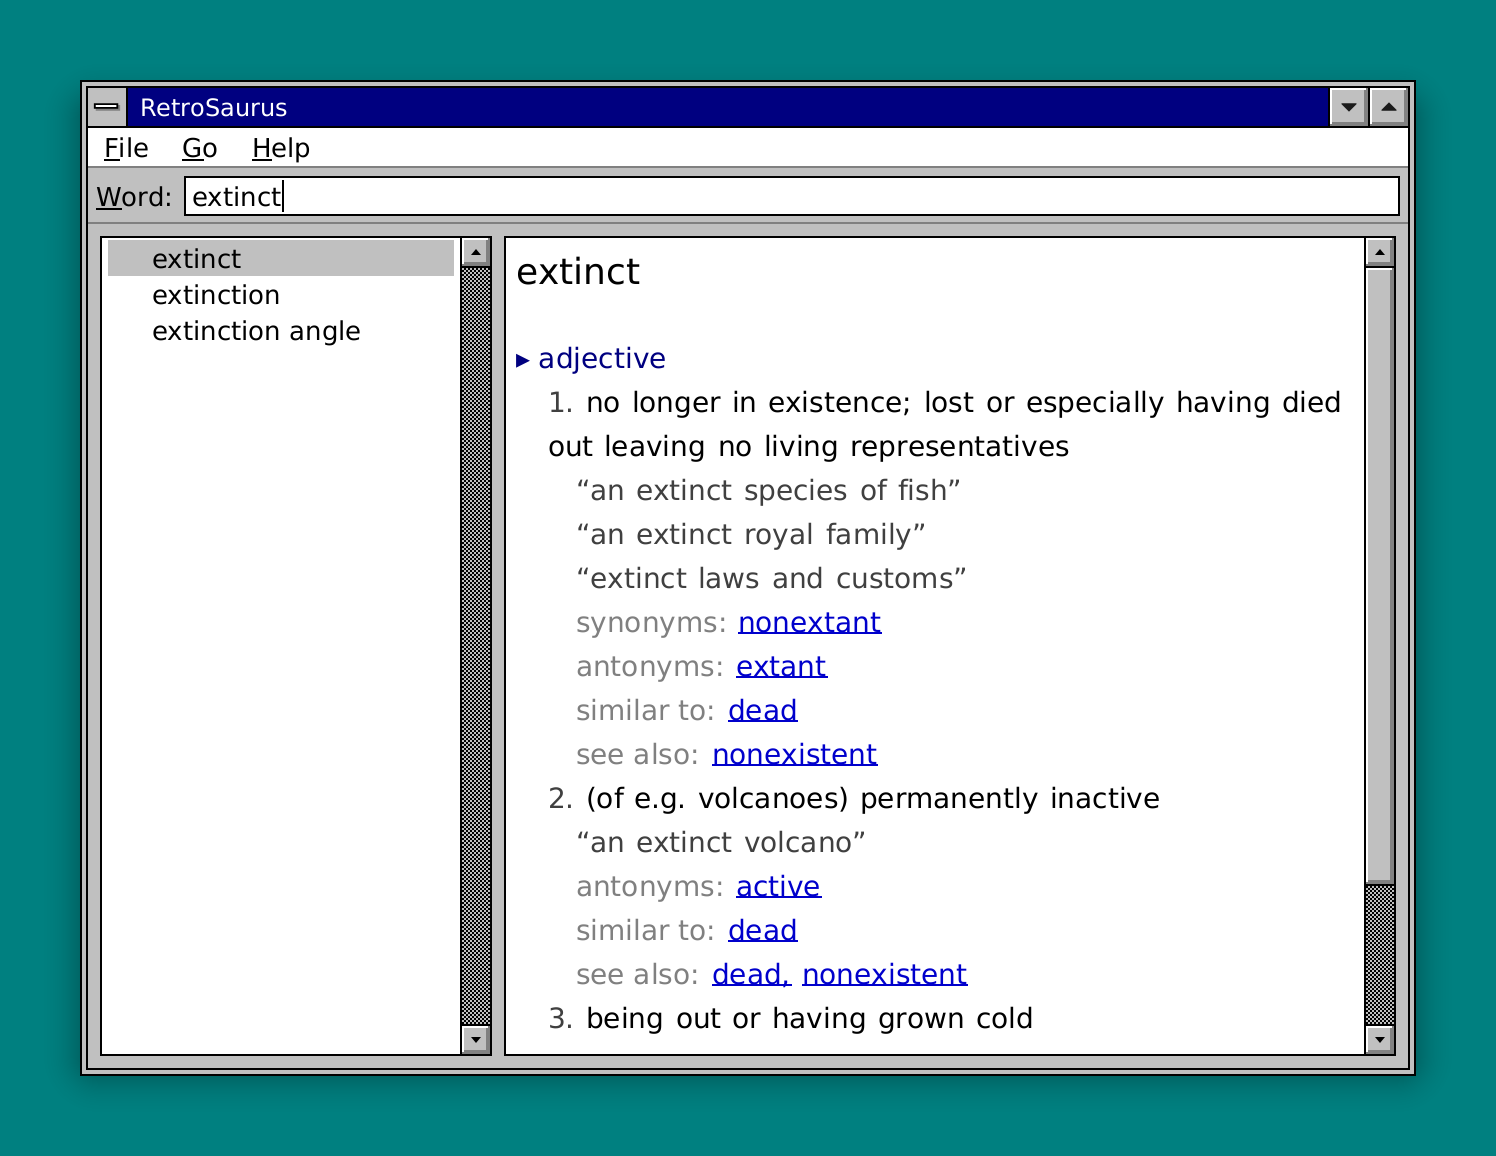
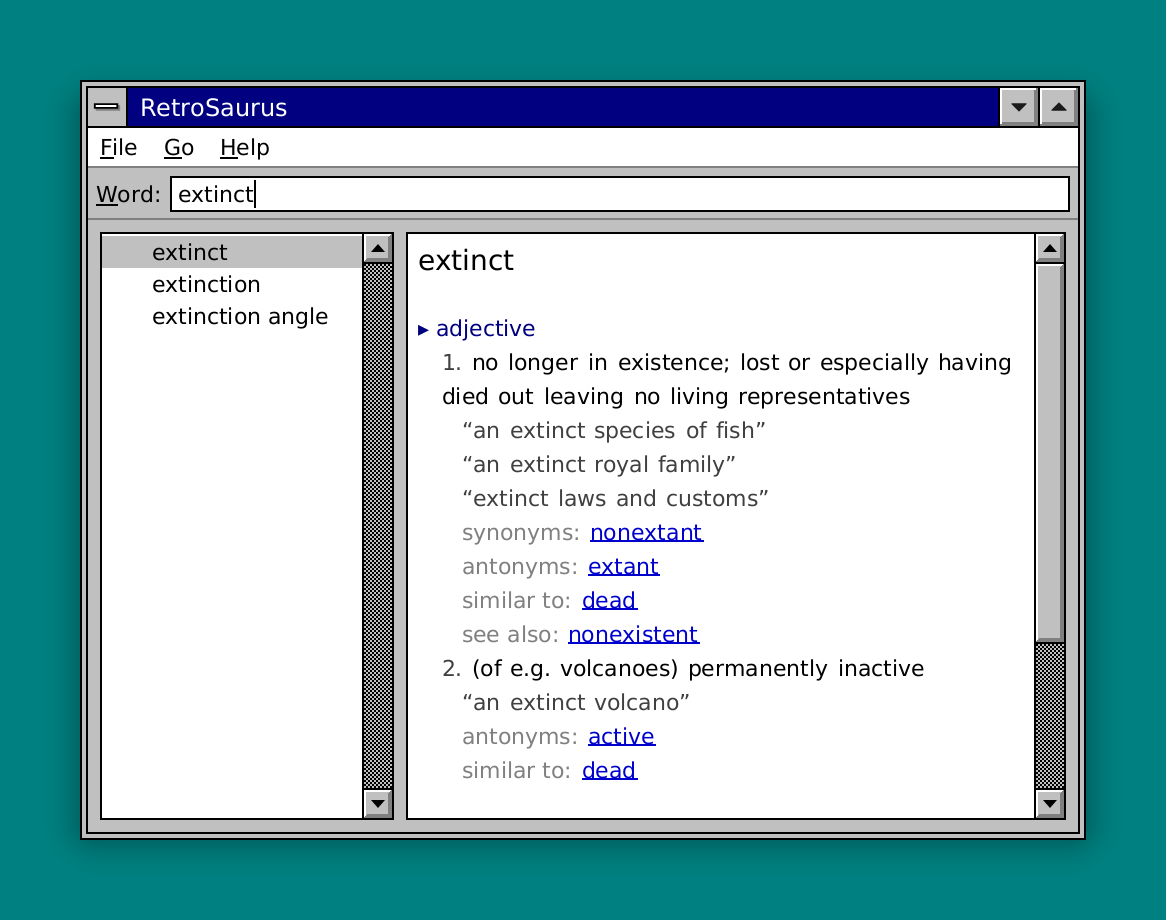
Upgrade Saudade to v0.7

Changed region(s): [[0.0309, 0.0609, 0.9571, 0.9435]]

diff --git a/src/widgets/definition_view.rs b/src/widgets/definition_view.rs
@@ -14,7 +14,7 @@
 //! out by the previous paint — the same approach saudade's `TextInput` uses.
 
 use saudade::{
-    Color, Cursor, Event, EventCtx, Key, MouseButton, NamedKey, Painter, Point, Rect,
+    Color, Cursor, Event, EventCtx, Key, Merged, MouseButton, NamedKey, Painter, Point, Rect,
     SCROLLBAR_THICKNESS, ScrollBar, Theme, Widget,
 };
 
@@ -22,8 +22,8 @@ use crate::thesaurus::{Entry, Pos, WordId};
 
 const PAD_X: i32 = 6;
 const PAD_Y: i32 = 4;
-const INDENT_SENSE: i32 = 16;
-const INDENT_DETAIL: i32 = 30;
+const INDENT_SENSE: i32 = 12;
+const INDENT_DETAIL: i32 = 22;
 
 // Link colors — a brighter blue than the navy chrome, underlined so they read
 // as clickable; hovering one also swaps in the Finger pointer (see `event`).
@@ -123,7 +123,7 @@ impl DefinitionView {
             line_count: 0,
             laid_width: -1,
             dirty: true,
-            font_size: 14.0,
+            font_size: 11.0,
             v_scrollbar: ScrollBar::vertical(Rect::new(0, 0, 0, 0)),
             focused: false,
             hovered: None,
@@ -153,7 +153,7 @@ impl DefinitionView {
     }
 
     fn line_height(&self) -> i32 {
-        (self.font_size as i32 + 8).max(10)
+        (self.font_size as i32 + 6).max(10)
     }
 
     fn text_area(&self) -> Rect {
@@ -173,6 +173,18 @@ impl DefinitionView {
             (self.rect.w - sb_w + overlap).max(0),
             self.rect.h,
         )
+    }
+
+    /// Which edges of the text field sit on a neighbouring frame line: the
+    /// right one, when the field overlaps the scrollbar (see `text_area`).
+    /// Passed to the merged chrome / frame-clip calls so the field's border
+    /// lands on the scrollbar's own border pixels at every scale.
+    fn merged(&self) -> Merged {
+        if self.v_scrollbar.rect().w > 0 {
+            Merged::RIGHT
+        } else {
+            Merged::NONE
+        }
     }
 
     fn content_w(&self) -> i32 {
@@ -212,7 +224,7 @@ impl DefinitionView {
 
     fn style_size(&self, style: RunStyle) -> f32 {
         match style {
-            RunStyle::Headword => self.font_size + 4.0,
+            RunStyle::Headword => self.font_size + 3.0,
             _ => self.font_size,
         }
     }
@@ -312,9 +324,10 @@ impl Widget for DefinitionView {
         self.sync_scrollbar();
 
         let text = self.text_area();
+        let merged = self.merged();
         painter.fill_rect(text, Color::WHITE);
-        painter.sunken_bevel(text, theme.highlight, theme.shadow);
-        painter.stroke_rect(text, theme.border);
+        painter.sunken_bevel_merged(text, merged, theme.highlight, theme.shadow);
+        painter.stroke_rect_merged(text, merged, theme.border);
 
         let line_h = self.line_height();
         let x0 = text.x + PAD_X;
@@ -322,7 +335,9 @@ impl Widget for DefinitionView {
         let visible = self.visible_rows() as usize;
         let scroll_top = self.scroll_top();
 
-        let saved = painter.push_clip(text.inset(1));
+        // Clip to the frame's interior, so text stops on exactly the border
+        // line's device pixels at fractional scales.
+        let saved = painter.push_clip_frame(text, 1, merged);
 
         if self.doc.is_empty() {
             painter.text(x0, y0, &self.placeholder, self.font_size, Color::MID_GRAY);

diff --git a/src/widgets/search_bar.rs b/src/widgets/search_bar.rs
@@ -7,13 +7,15 @@
 
 use saudade::{Color, Event, EventCtx, Painter, Rect, TextInput, Theme, Widget};
 
-const LABEL_W: i32 = 48;
 const PAD: i32 = 4;
 
 pub struct SearchBar {
     bounds: Rect,
     input: TextInput,
     label: String,
+    /// Measured width of `label`. Text can only be measured while painting,
+    /// so this holds a rough estimate until the first paint corrects it.
+    label_w: i32,
 }
 
 impl SearchBar {
@@ -22,6 +24,7 @@ impl SearchBar {
             bounds: rect,
             input: TextInput::new(Rect::new(0, 0, 0, 0)),
             label: "Word:".to_string(),
+            label_w: 32,
         };
         me.relayout();
         me
@@ -49,7 +52,7 @@ impl SearchBar {
     }
 
     fn relayout(&mut self) {
-        let x = self.bounds.x + LABEL_W;
+        let x = self.bounds.x + PAD + self.label_w + PAD;
         let input_rect = Rect::new(
             x,
             self.bounds.y + PAD,
@@ -66,6 +69,11 @@ impl Widget for SearchBar {
     }
 
     fn paint(&mut self, painter: &mut Painter, theme: &Theme) {
+        let label_w = painter.measure_text(&self.label, theme.font_size).w;
+        if label_w != self.label_w {
+            self.label_w = label_w;
+            self.relayout();
+        }
         painter.fill_rect(self.bounds, theme.face);
         let label_y = self.bounds.y + (self.bounds.h - theme.font_size as i32) / 2 - 1;
         painter.text(

diff --git a/examples/screenshots.rs b/examples/screenshots.rs
@@ -20,8 +20,9 @@ use retrosaurus::ui::RetroSaurus;
 use saudade::mock::MockBackend;
 use saudade::{Event, Font, Modifiers, Widget, WindowChrome};
 
-const WINDOW_W: i32 = 660;
-const WINDOW_H: i32 = 470;
+// Same logical size the binary opens at (see `src/main.rs`).
+const WINDOW_W: i32 = 495;
+const WINDOW_H: i32 = 352;
 // Capture at 2× so the README image stays crisp on hi-DPI displays.
 const SCALE: f32 = 2.0;
 
@@ -32,7 +33,7 @@ fn main() {
 
     let backend = MockBackend::new(WINDOW_W, WINDOW_H)
         .with_scale(SCALE)
-        .with_font(sans_font())
+        .with_sans_font(sans_font())
         .with_mono_font(mono_font());
 
     // Warm-up render, focus the search field, then type an on-theme word with a
@@ -54,12 +55,12 @@ fn main() {
 }
 
 fn sans_font() -> Font {
-    Font::from_bytes(include_bytes!("../tests/fonts/DejaVuSans.ttf").to_vec())
+    Font::from_sans_bytes(include_bytes!("../tests/fonts/DejaVuSans.ttf").to_vec())
         .expect("bundled DejaVuSans.ttf failed to load")
 }
 
 fn mono_font() -> Font {
-    Font::from_bytes(include_bytes!("../tests/fonts/DejaVuSansMono.ttf").to_vec())
+    Font::from_sans_bytes(include_bytes!("../tests/fonts/DejaVuSansMono.ttf").to_vec())
         .expect("bundled DejaVuSansMono.ttf failed to load")
 }
 

diff --git a/tests/common/mod.rs b/tests/common/mod.rs
@@ -11,12 +11,12 @@ use saudade::mock::MockBackend;
 use saudade::{Event, Font, Widget};
 
 pub fn sans_font() -> Font {
-    Font::from_bytes(include_bytes!("../fonts/DejaVuSans.ttf").to_vec())
+    Font::from_sans_bytes(include_bytes!("../fonts/DejaVuSans.ttf").to_vec())
         .expect("bundled DejaVuSans.ttf failed to load")
 }
 
 pub fn mono_font() -> Font {
-    Font::from_bytes(include_bytes!("../fonts/DejaVuSansMono.ttf").to_vec())
+    Font::from_sans_bytes(include_bytes!("../fonts/DejaVuSansMono.ttf").to_vec())
         .expect("bundled DejaVuSansMono.ttf failed to load")
 }
 
@@ -26,7 +26,7 @@ pub const SCALE: f32 = 1.0;
 pub fn backend(width: i32, height: i32) -> MockBackend {
     MockBackend::new(width, height)
         .with_scale(SCALE)
-        .with_font(sans_font())
+        .with_sans_font(sans_font())
         .with_mono_font(mono_font())
 }
 
@@ -58,7 +58,7 @@ fn snapshot_one(
 ) {
     let backend = MockBackend::new(width, height)
         .with_scale(SCALE)
-        .with_font(sans_font())
+        .with_sans_font(sans_font())
         .with_mono_font(mono_font());
 
     // Warm-up render so paint-time geometry (the definition pane's wrapped

diff --git a/src/widgets/layout.rs b/src/widgets/layout.rs
@@ -10,9 +10,11 @@ use saudade::Rect;
 /// Height of the menu bar.
 pub const MENU_H: i32 = 20;
 /// Height of the search toolbar below the menu.
-pub const TOOLBAR_H: i32 = 28;
+pub const TOOLBAR_H: i32 = 26;
 /// Width of the word-result list on the left.
-pub const LIST_W: i32 = 196;
+pub const LIST_W: i32 = 147;
+/// Narrowest the definition pane gets before the list gives up width to it.
+pub const MIN_DETAIL_W: i32 = 90;
 /// Breathing room around and between the two panes.
 pub const PAD: i32 = 6;
 
@@ -36,7 +38,7 @@ fn content_h(b: Rect) -> i32 {
 
 /// Width of the list, clamped so the definition pane keeps a usable minimum.
 fn list_w(b: Rect) -> i32 {
-    LIST_W.min((b.w - 3 * PAD - 120).max(0))
+    LIST_W.min((b.w - 3 * PAD - MIN_DETAIL_W).max(0))
 }
 
 pub fn list(b: Rect) -> Rect {

diff --git a/src/main.rs b/src/main.rs
@@ -11,8 +11,10 @@ use retrosaurus::thesaurus::{EmbeddedThesaurus, Thesaurus};
 use retrosaurus::ui::RetroSaurus;
 use saudade::{App, Theme, WindowConfig};
 
-const WINDOW_W: i32 = 660;
-const WINDOW_H: i32 = 470;
+/// Initial window size, in logical pixels. Saudade's logical pixel targets
+/// 72 dpi, so this opens at the same physical size 660×470 did at 96 dpi.
+const WINDOW_W: i32 = 495;
+const WINDOW_H: i32 = 352;
 
 fn main() -> ExitCode {
     let thesaurus: Rc<dyn Thesaurus> = match EmbeddedThesaurus::load() {

diff --git a/tests/snapshots.rs b/tests/snapshots.rs
@@ -9,8 +9,8 @@ use retrosaurus::thesaurus::{Fixture, Thesaurus};
 use retrosaurus::ui::RetroSaurus;
 use saudade::{Event, Modifiers, Widget};
 
-const W: i32 = 660;
-const H: i32 = 470;
+const W: i32 = 495;
+const H: i32 = 352;
 
 fn app() -> Box<dyn Widget> {
     let thesaurus: Rc<dyn Thesaurus> = Rc::new(Fixture::sample());

diff --git a/tests/navigation.rs b/tests/navigation.rs
@@ -10,8 +10,8 @@ use retrosaurus::thesaurus::{Fixture, Thesaurus};
 use retrosaurus::ui::RetroSaurus;
 use saudade::{Event, Key, Modifiers, MouseButton, NamedKey, Point, Widget};
 
-const W: i32 = 660;
-const H: i32 = 470;
+const W: i32 = 495;
+const H: i32 = 352;
 
 fn type_str(text: &str) -> Vec<Event> {
     text.chars()
